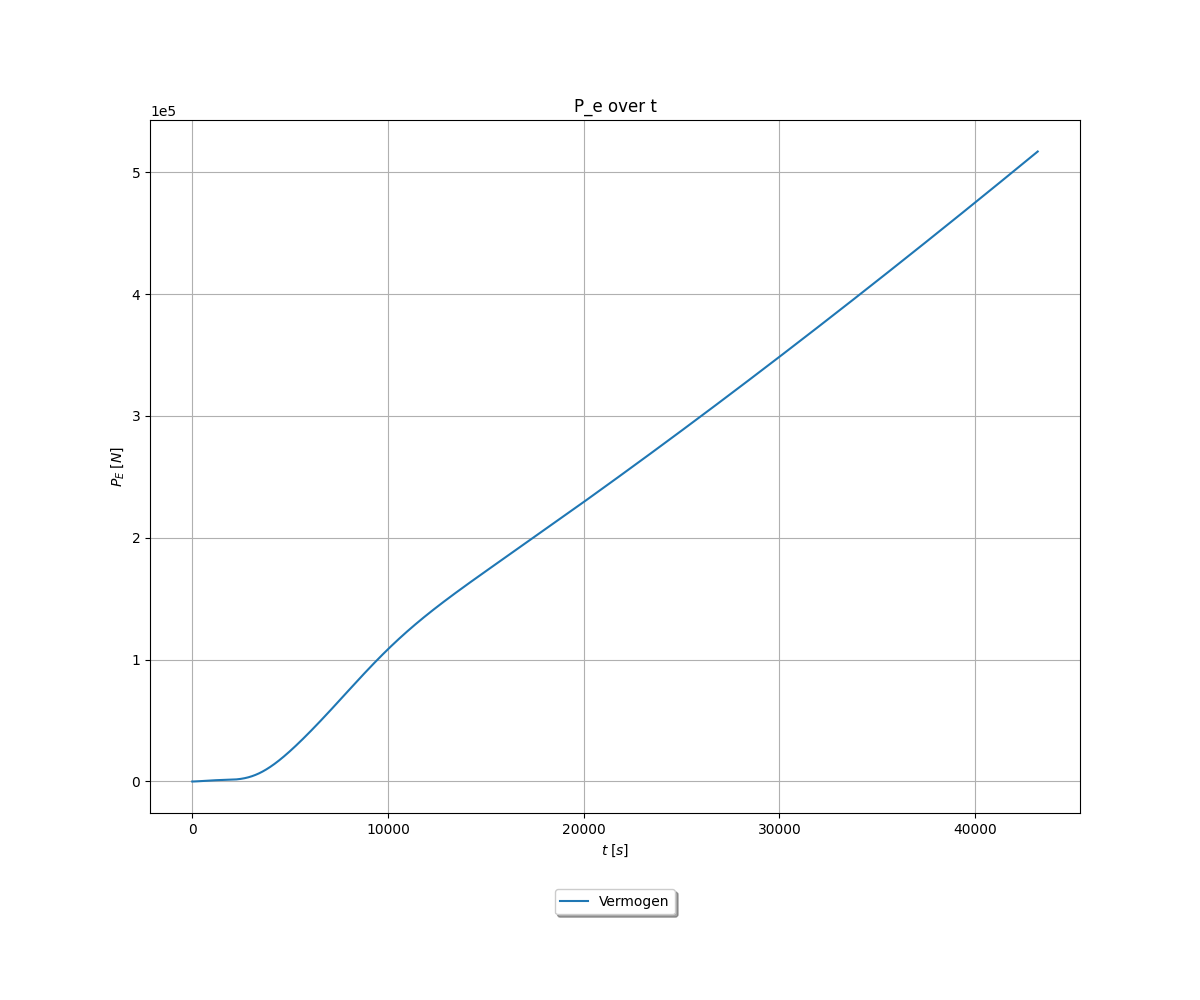
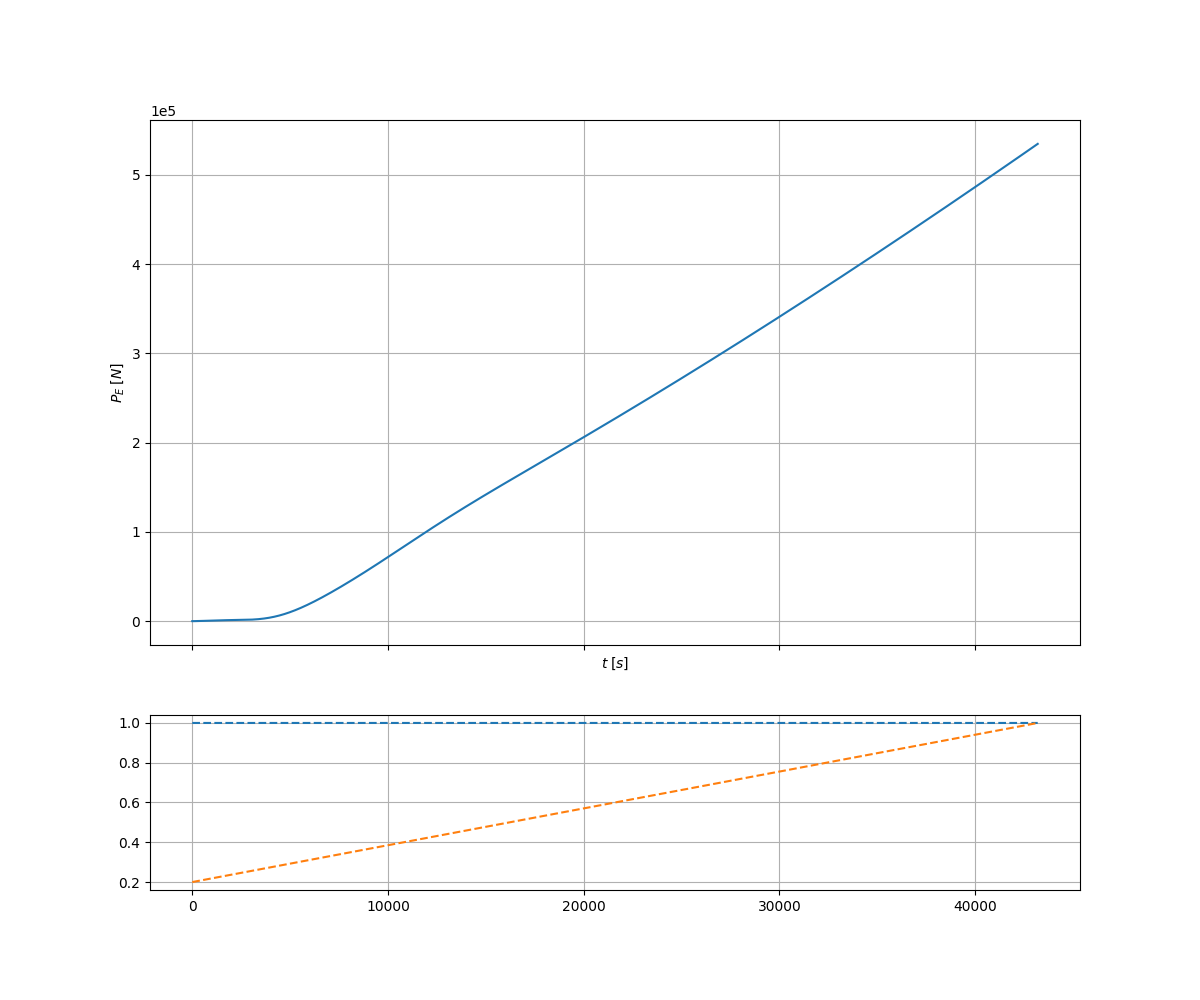
bam

diff --git a/WVA/Model WP.py b/WVA/Model WP.py
@@ -184,26 +184,27 @@ for k in range(len(P_theoretisch)):
 
 
 def plot_P_v(titel):
-        figure = plt.figure(figsize=(12,10))
-        ax = plt.subplot(111)
-        plt.ylabel(r"$P_E \; [N]$")
-        plt.xlabel(r"$t \; [s]$")
-        plt.title(titel)
-        plt.plot(model.mytime,model.P_E,label="Vermogen")
-        plt.ticklabel_format(style='sci', axis='y', scilimits=(0,0))
+        fig, (ax1, ax2) = plt.subplots(nrows=2, sharex=True, gridspec_kw={'height_ratios': [3, 1]},figsize=(12,10))
+        ax1.set_ylabel(r"$P_E \; [N]$")
+        ax1.set_xlabel(r"$t \; [s]$")
+        ax1.plot(model.mytime,model.P_E,label="Vermogen")
+        ax1.ticklabel_format(style='sci', axis='y', scilimits=(0,0))
+        ax1.grid()
+        ax2.plot(model.mytime,model.ov_Y_set,linestyle="dashed",label="Y parms")
+        ax2.plot(model.mytime,model.ov_X_set,linestyle="dashed",label="X parms")
+        ax2.ticklabel_format(style='sci', axis='y', scilimits=(0,0))
+        ax2.grid()
         titelfig= "./Plots/"+titel+".png"
-        plt.grid()
-        
-        # Shrink current axis's height by 10% on the bottom
-        box = ax.get_position()
-        ax.set_position([box.x0, box.y0 + box.height * 0.1,
-                        box.width, box.height * 0.9])
+        fig.savefig(titelfig)
+                
+'''
+box = ax.get_position()
+ax.set_position([box.x0, box.y0 + box.height * 0.1,
+                box.width, box.height * 0.9])
+ax.legend(loc='upper center', bbox_to_anchor=(0.5, -0.1),
+        fancybox=True, shadow=True, ncol=3)
 
-        # Put a legend below current axis
-        ax.legend(loc='upper center', bbox_to_anchor=(0.5, -0.1),
-                fancybox=True, shadow=True, ncol=3)
-
-        plt.savefig(titelfig)
+ax = plt.subplot(111)'''
 
 def eta_P(titel):
         figure = plt.figure(figsize=(12,10))
@@ -232,4 +233,3 @@ def eta_P(titel):
         plt.savefig(titelfig)
 
 plot_P_v("P_e over t")
-eta_P("eta als functie van P_e")

diff --git a/WVA/Propulsion_system_python_compleet2023_metaanpassingen.py b/WVA/Propulsion_system_python_compleet2023_metaanpassingen.py
@@ -167,10 +167,10 @@ for k in range(tmax-1):
                   n_p[k] ** 2) * rho_sw * D_p ** 4)
     M_prop[k] = (((((J[k+1] * K_Q_a) + K_Q_b) *
                   n_p[k] ** 2) * rho_sw * D_p ** 5) / eta_R)
-    KT[0]=  J[0] * K_T_a + K_T_b
-    KQ[0]= J[0] * K_Q_a + K_Q_b
-    KT[k+1] = J[k+1] * K_T_a + K_T_b
-    KQ[k+1] = J[k+1] * K_Q_a + K_Q_b
+    KT[0] = -0.16026829*J[0]**2 + -0.28308796*J[0]  +0.27711417
+    KQ[0] = -0.19249704*J[0]**2 + -0.19043507*J[0]+  0.28027716
+    KT[k+1] = -0.16026829*J[k+1]**2 + -0.28308796*J[k+1]  +0.27711417
+    KQ[k+1] = -0.19249704*J[k+1]**2 + -0.19043507*J[k+1]+  0.28027716
     P_O[k+1] = ((((J[k+1] * K_Q_a) + K_Q_b) *
                 n_p[k] ** 2) * rho_sw * D_p ** 5) * n_p[k] * 2 * math.pi
     P_p[k+1] = M_prop[k] * n_p[k] * 2 * math.pi
@@ -276,3 +276,6 @@ print('run time:',time.perf_counter()-start,'seconden')
 
 np.savetxt("R_aangepast.csv", R, delimiter=",",fmt='%10.3f')
 np.savetxt("v_aangepast.csv", v_s, delimiter=",",fmt='%10.3f')
+
+
+
